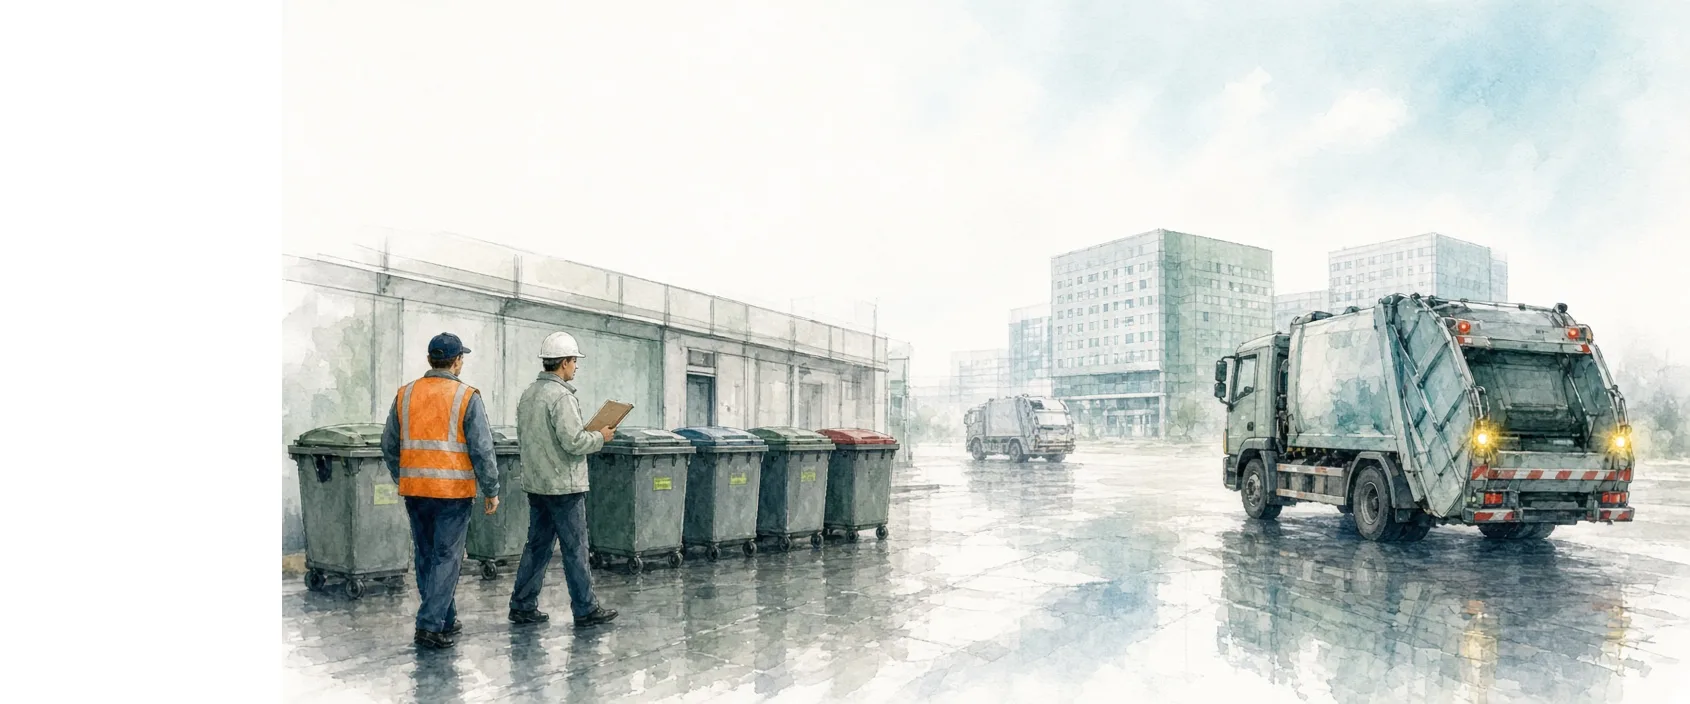
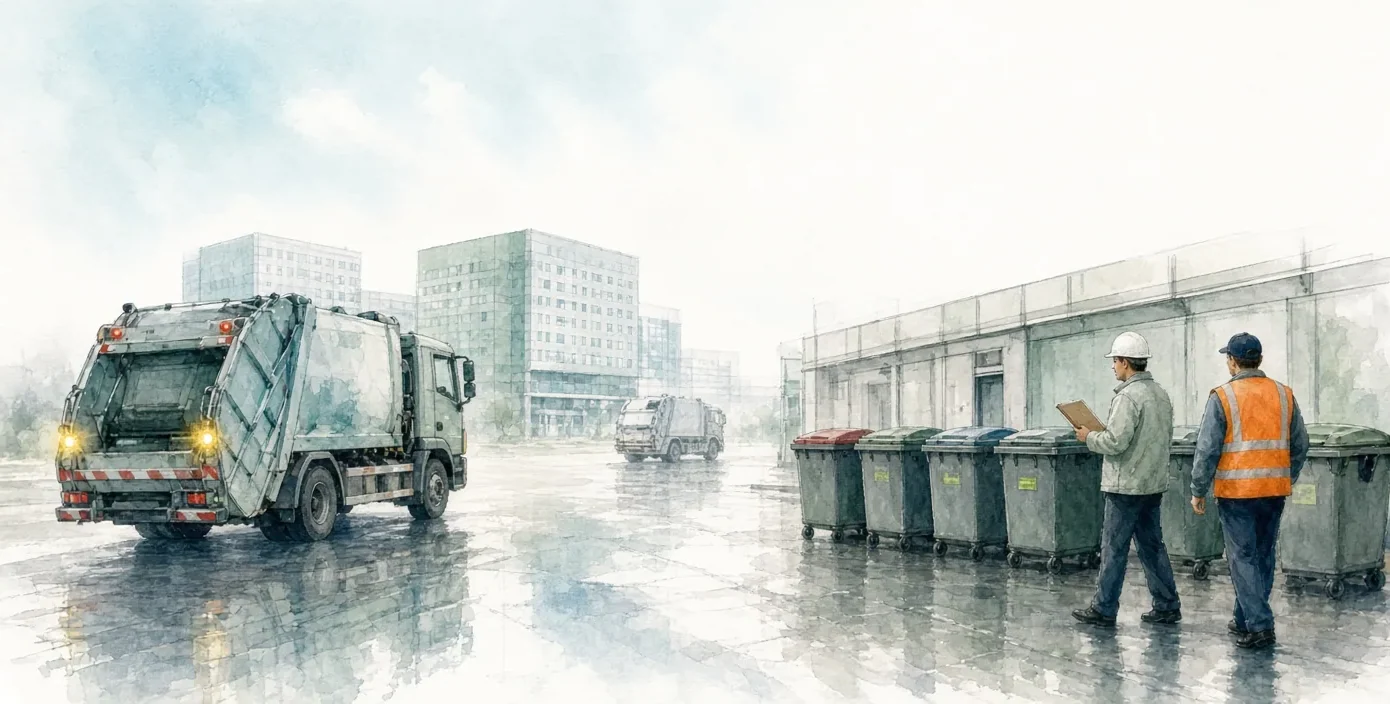
meguri-waste: full-bleed hero with panel, tags in scene, util boxes right, longer step arrows, dock/price alignment

diff --git a/themes/meguri-waste/style.css b/themes/meguri-waste/style.css
@@ -76,7 +76,7 @@ a { text-underline-offset: .2em; }
 .mw-head-part { position: sticky; top: calc(var(--mw-util) * -1); z-index: 60; background: #fff; }
 .mw-header { background: #fff; }
 .mw-util { height: var(--mw-util); display: flex; align-items: center; }
-.mw-util__in { display: flex; gap: 16px; justify-content: flex-end; align-items: center; }
+.mw-util__in { width: 100%; display: flex; gap: 16px; justify-content: flex-end; align-items: center; }
 .mw-box { margin: 0; padding: 6px 14px; border: 1px solid var(--mw-teal); border-radius: 4px; font-size: .8125rem; line-height: 1.5; color: var(--mw-slate); background: #fff; white-space: nowrap; }
 .mw-box--alert { border-color: var(--mw-alert); color: var(--mw-alert); }
 .mw-box--dark { background: transparent; color: #fff; border-color: #5EC5BD; }
@@ -108,8 +108,8 @@ a { text-underline-offset: .2em; }
 .mw-hero__strip { height: 100%; overflow-x: auto; overflow-y: hidden; scroll-snap-type: x proximity; scrollbar-width: none; scroll-behavior: smooth; }
 .mw-hero__strip::-webkit-scrollbar { display: none; }
 .mw-hero__track { position: relative; display: flex; height: 100%; width: max-content; min-width: 100%; }
-.mw-hero__start { flex: 0 0 min(680px, 47vw); scroll-snap-align: start; }
-.mw-hero__scene { position: relative; flex: 0 0 max(1536px, calc(100vw - min(680px, 47vw))); height: 100%; overflow: clip; }
+.mw-hero__start { flex: 0 0 0; scroll-snap-align: start; }
+.mw-hero__scene { position: relative; flex: 0 0 calc(100vw + 160px); height: 100%; overflow: clip; }
 .mw-hero__end { position: absolute; right: 0; top: 0; width: 1px; height: 1px; scroll-snap-align: end; }
 .mw-hero__pic { position: absolute; inset: 0; margin: 0; }
 .mw-hero__pic img { display: block; width: 100%; height: 100%; object-fit: cover; object-position: center bottom; }
@@ -124,26 +124,26 @@ a { text-underline-offset: .2em; }
 	html.sp-js:not(.sp-no-motion) .mw-hero__pic img { animation: mw-kb 20s ease-in-out infinite alternate; }
 }
 .mw-hero__in { position: absolute; inset: 0; z-index: 2; pointer-events: none; }
-.mw-hero__panel { position: absolute; left: max(24px, calc((100vw - 1200px) / 2)); top: 44px; max-width: 700px; padding: 32px 40px 36px; box-sizing: border-box; background: rgba(255,255,255,.72); pointer-events: auto; }
+.mw-hero__panel { position: absolute; left: max(24px, calc((100vw - 1200px) / 2)); top: 56px; max-width: 640px; padding: 32px 40px 36px; box-sizing: border-box; background: rgba(255,255,255,.72); pointer-events: auto; }
 .mw-hero__h1 { text-wrap: balance; margin: 0; font-size: var(--wp--preset--font-size--hero); font-weight: 400; line-height: 1.08; letter-spacing: -.01em; color: var(--mw-slate); }
 .mw-hero__h1 strong { font-weight: 700; }
 .mw-hero__lead { margin: 22px 0 0; max-width: 560px; font-size: 1.0625rem; line-height: 1.7; }
 .mw-hero__cta { margin-top: 24px; gap: 24px; align-items: center; }
 .mw-hero__cta.wp-block-buttons { gap: 24px; }
 .mw-tags { list-style: none; margin: 0; padding: 0; }
-.mw-tag { position: absolute; top: 56%; width: 72px; height: 96px; margin: 24px 0 0 -36px; padding: 18px 4px 0; box-sizing: border-box; background: #fff; border: 1px solid var(--mw-slate); text-align: center; line-height: 1.2; transform-origin: 50% -24px; }
+.mw-tag { position: absolute; z-index: 2; top: 79%; width: 72px; height: 96px; margin: 24px 0 0 -36px; padding: 18px 4px 0; box-sizing: border-box; background: #fff; border: 1px solid var(--mw-slate); text-align: center; line-height: 1.2; transform-origin: 50% -24px; }
 .mw-tag::before { content: ""; position: absolute; left: 50%; top: -25px; width: 1px; height: 24px; background: var(--mw-slate); }
 .mw-tag::after { content: ""; position: absolute; left: 50%; top: 6px; width: 6px; height: 6px; margin-left: -3px; border-radius: 50%; background: var(--mw-teal); }
 .mw-tag b { display: block; font-family: var(--wp--preset--font-family--display); font-weight: 600; font-size: .9375rem; color: var(--mw-slate); }
 .mw-tag span { display: block; margin-top: 4px; font-size: .75rem; color: var(--wp--preset--color--patina); }
-.mw-tag--1 { left: 15%; } .mw-tag--2 { left: 35.7%; } .mw-tag--3 { left: 41%; } .mw-tag--4 { left: 46%; } .mw-tag--5 { left: 50.9%; }
+.mw-tag--1 { left: 35%; } .mw-tag--2 { left: 47%; } .mw-tag--3 { left: 59%; } .mw-tag--4 { left: 71%; } .mw-tag--5 { left: 83%; }
 @media (prefers-reduced-motion: no-preference) {
 	html:not(.sp-no-motion) .mw-tag { animation: mw-sway 6s ease-in-out infinite alternate; }
 	html:not(.sp-no-motion) .mw-tag--2 { animation-delay: -1.5s; } html:not(.sp-no-motion) .mw-tag--3 { animation-delay: -3s; }
 	html:not(.sp-no-motion) .mw-tag--4 { animation-delay: -4.5s; }
 }
 @keyframes mw-sway { from { transform: rotate(-1.2deg); } to { transform: rotate(1.2deg); } }
-.mw-hero__ctrl { position: absolute; right: max(24px, calc((100vw - 1200px) / 2)); bottom: 24px; z-index: 3; display: flex; gap: 8px; }
+.mw-hero__ctrl { position: absolute; right: max(24px, calc((100vw - 1200px) / 2)); top: 24px; z-index: 3; display: flex; gap: 8px; }
 .mw-hero__btn { display: inline-flex; align-items: center; justify-content: center; width: 44px; height: 44px; border: 1px solid var(--mw-slate); background: #fff; color: var(--mw-slate); text-decoration: none; font-size: 1.25rem; transition: background .2s, color .2s; }
 .mw-hero__btn:hover { background: var(--mw-slate); color: #fff; }
 .mw-chips { display: none; }
@@ -213,8 +213,8 @@ a { text-underline-offset: .2em; }
 .mw-step__ico { display: block; margin-top: 8px; }
 .mw-step__ico svg { width: 96px; height: 96px; display: block; }
 .mw-step__label { margin: 14px 0 0; font-size: .9375rem; font-weight: 500; color: var(--mw-slate); }
-.mw-step:not(:last-child)::after { content: ""; position: absolute; top: 87px; left: calc(50% + 62px); right: calc(-50% + 70px); height: 12px; background: linear-gradient(var(--mw-slate), var(--mw-slate)) 0 50% / 100% 2px no-repeat, radial-gradient(circle, var(--mw-teal) 0 5px, transparent 6px) 50% 50% / 12px 12px no-repeat; }
-.mw-step:not(:last-child)::before { content: ""; position: absolute; top: 88px; right: calc(-50% + 62px); width: 0; height: 0; border-top: 5px solid transparent; border-bottom: 5px solid transparent; border-left: 8px solid var(--mw-slate); transform: translateY(-4px); }
+.mw-step:not(:last-child)::after { content: ""; position: absolute; top: 87px; left: calc(50% + 54px); right: calc(-50% + 58px); height: 12px; background: linear-gradient(var(--mw-slate), var(--mw-slate)) 0 50% / 100% 2px no-repeat, radial-gradient(circle, var(--mw-teal) 0 5px, transparent 6px) 50% 50% / 12px 12px no-repeat; }
+.mw-step:not(:last-child)::before { content: ""; position: absolute; top: 88px; right: calc(-50% + 52px); width: 0; height: 0; border-top: 5px solid transparent; border-bottom: 5px solid transparent; border-left: 8px solid var(--mw-slate); transform: translateY(-4px); }
 .mw-day__lead { margin-top: 60px !important; }
 .mw-cols { columns: 2; column-gap: 60px; }
 @media (max-width: 781px) {
@@ -229,6 +229,7 @@ a { text-underline-offset: .2em; }
 .mw-dock.wp-block-cover { min-height: 560px; padding: 0; align-items: flex-end; --sp-par: 10%; background: #fff; }
 .mw-dock .wp-block-cover__inner-container { width: 100%; }
 .mw-dock__wrap { padding-bottom: 48px; }
+@media (min-width: 782px) and (max-width: 1343px) { .mw-dock__wrap { padding-left: 48px; } }
 .mw-dock__panel { color: var(--mw-ink); max-width: 420px; padding: 32px 36px 34px; background: #fff; }
 .mw-dock__panel p { margin: 12px 0 0; font-size: .9375rem; line-height: 1.75; }
 .mw-dock .wp-block-cover__image-background { object-position: center bottom; }
@@ -239,7 +240,7 @@ a { text-underline-offset: .2em; }
 }
 
 /* ---------- weekly cover price rows ---------- */
-.mw-cover__intro { display: grid; grid-template-columns: minmax(0, 1fr) 360px; gap: 60px; align-items: center; margin-bottom: 56px; }
+.mw-cover__intro { display: grid; grid-template-columns: minmax(0, 1fr) 360px; gap: 60px; align-items: flex-start; margin-bottom: 56px; }
 .mw-cover__lead { max-width: 640px; font-size: 1.125rem; line-height: 1.85; }
 .mw-cover__pic img { width: 100%; aspect-ratio: 1; object-fit: cover; }
 .mw-prices { border-top: 1px solid var(--mw-rule); }

diff --git a/themes/meguri-waste/patterns/front-hero.php b/themes/meguri-waste/patterns/front-hero.php
@@ -9,7 +9,7 @@
 ?>
 <!-- wp:group {"align":"full","tagName":"section","className":"mw-hero sp-parallax","layout":{"type":"default"}} -->
 <section class="wp-block-group alignfull mw-hero sp-parallax"><!-- wp:html -->
-<div class="mw-hero__strip" tabindex="0" role="region" aria-label="<?php echo esc_attr( meguri_waste_t( 'hero_strip_label' ) ); ?>"><div class="mw-hero__track"><span class="mw-hero__start" id="mw-pan-start"></span><div class="mw-hero__scene"><figure class="mw-hero__pic sp-parallax__layer"><img src="<?php echo meguri_waste_img( 'p01' ); ?>" alt="<?php echo esc_attr( meguri_waste_t( 'alt_p01' ) ); ?>" width="1690" height="704" decoding="async" fetchpriority="high"/></figure><ol class="mw-tags"><li class="mw-tag mw-tag--1"><b><?php echo esc_html( meguri_waste_t( 'tag_mon' ) ); ?></b><span><?php echo esc_html( meguri_waste_t( 'tag_mon_s' ) ); ?></span></li><li class="mw-tag mw-tag--2"><b><?php echo esc_html( meguri_waste_t( 'tag_tue' ) ); ?></b><span><?php echo esc_html( meguri_waste_t( 'tag_tue_s' ) ); ?></span></li><li class="mw-tag mw-tag--3"><b><?php echo esc_html( meguri_waste_t( 'tag_wed' ) ); ?></b><span><?php echo esc_html( meguri_waste_t( 'tag_wed_s' ) ); ?></span></li><li class="mw-tag mw-tag--4"><b><?php echo esc_html( meguri_waste_t( 'tag_thu' ) ); ?></b><span><?php echo esc_html( meguri_waste_t( 'tag_thu_s' ) ); ?></span></li><li class="mw-tag mw-tag--5"><b><?php echo esc_html( meguri_waste_t( 'tag_fri' ) ); ?></b><span><?php echo esc_html( meguri_waste_t( 'tag_fri_s' ) ); ?></span></li></ol><span class="mw-hero__end" id="mw-pan-end"></span></div></div></div>
+<div class="mw-hero__strip" tabindex="0" role="region" aria-label="<?php echo esc_attr( meguri_waste_t( 'hero_strip_label' ) ); ?>"><div class="mw-hero__track"><span class="mw-hero__start" id="mw-pan-start"></span><div class="mw-hero__scene"><figure class="mw-hero__pic sp-parallax__layer"><img src="<?php echo meguri_waste_img( 'p01' ); ?>" alt="<?php echo esc_attr( meguri_waste_t( 'alt_p01' ) ); ?>" width="1390" height="704" decoding="async" fetchpriority="high"/></figure><ol class="mw-tags"><li class="mw-tag mw-tag--1"><b><?php echo esc_html( meguri_waste_t( 'tag_mon' ) ); ?></b><span><?php echo esc_html( meguri_waste_t( 'tag_mon_s' ) ); ?></span></li><li class="mw-tag mw-tag--2"><b><?php echo esc_html( meguri_waste_t( 'tag_tue' ) ); ?></b><span><?php echo esc_html( meguri_waste_t( 'tag_tue_s' ) ); ?></span></li><li class="mw-tag mw-tag--3"><b><?php echo esc_html( meguri_waste_t( 'tag_wed' ) ); ?></b><span><?php echo esc_html( meguri_waste_t( 'tag_wed_s' ) ); ?></span></li><li class="mw-tag mw-tag--4"><b><?php echo esc_html( meguri_waste_t( 'tag_thu' ) ); ?></b><span><?php echo esc_html( meguri_waste_t( 'tag_thu_s' ) ); ?></span></li><li class="mw-tag mw-tag--5"><b><?php echo esc_html( meguri_waste_t( 'tag_fri' ) ); ?></b><span><?php echo esc_html( meguri_waste_t( 'tag_fri_s' ) ); ?></span></li></ol><span class="mw-hero__end" id="mw-pan-end"></span></div></div></div>
 <div class="mw-hero__ctrl"><a class="mw-hero__btn" href="#mw-pan-start" aria-label="<?php echo esc_attr( meguri_waste_t( 'hero_prev' ) ); ?>">&#8592;</a><a class="mw-hero__btn" href="#mw-pan-end" aria-label="<?php echo esc_attr( meguri_waste_t( 'hero_next' ) ); ?>">&#8594;</a></div>
 <!-- /wp:html -->
 
